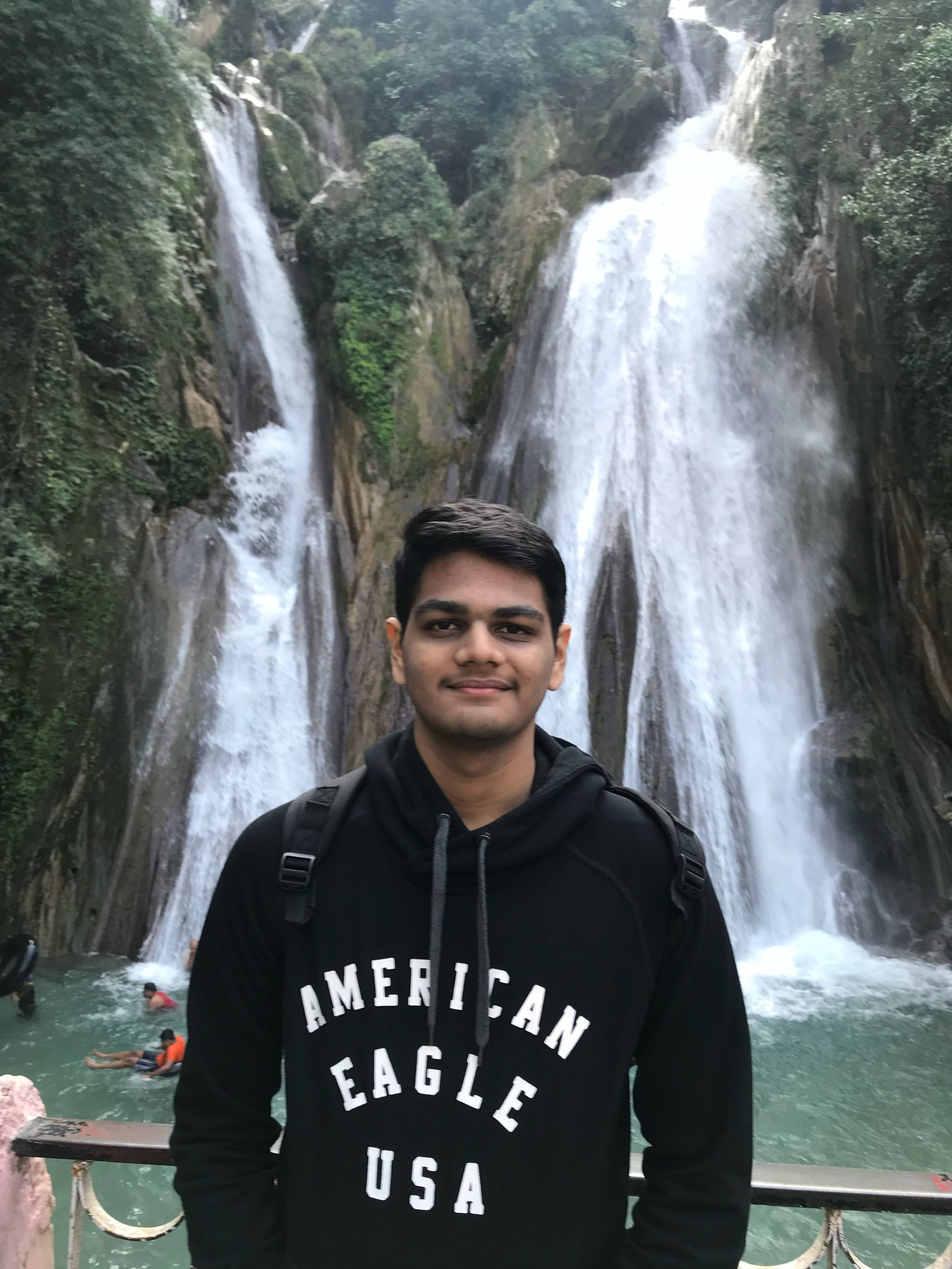
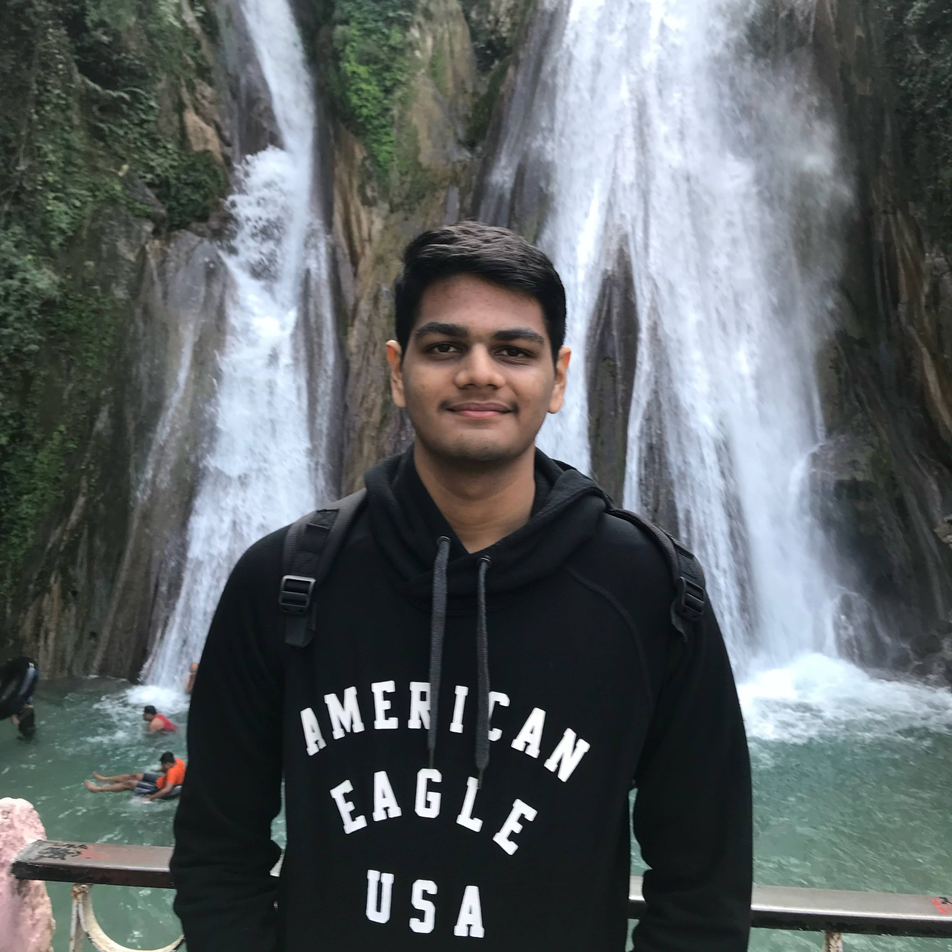
Changes

diff --git a/FrontEnd_3/static/css/contact.css b/FrontEnd_3/static/css/contact.css
@@ -55,10 +55,8 @@ div.update-spacing{
 }
 
 .contact-img {
-  width:  17vw;
-  height: 17vw;
   background-size: cover;
-  border:1px solid #1C4193;                
+  border:1px solid #1C4193;
 }
 
 .tag{
@@ -70,25 +68,6 @@ div.update-spacing{
   padding: 5px 15px;
   transform: translate(-50%, -20px);
 }
-
-@media only screen and (max-width: 777px) {
-  .contact-img {
-    width:  60vw;
-    height: 60vw;
-    background-size: cover;
-    border:1px solid #1C4193;                
-  }
-}
-
-@media only screen and (min-width: 778px) and (max-width: 988px) {
-  .contact-img {
-    width:  40vw;
-    height: 40vw;
-    background-size: cover;
-    border:1px solid #1C4193;                
-  }
-}
-
 
 .heading-sites {
   padding-top: 1%;
